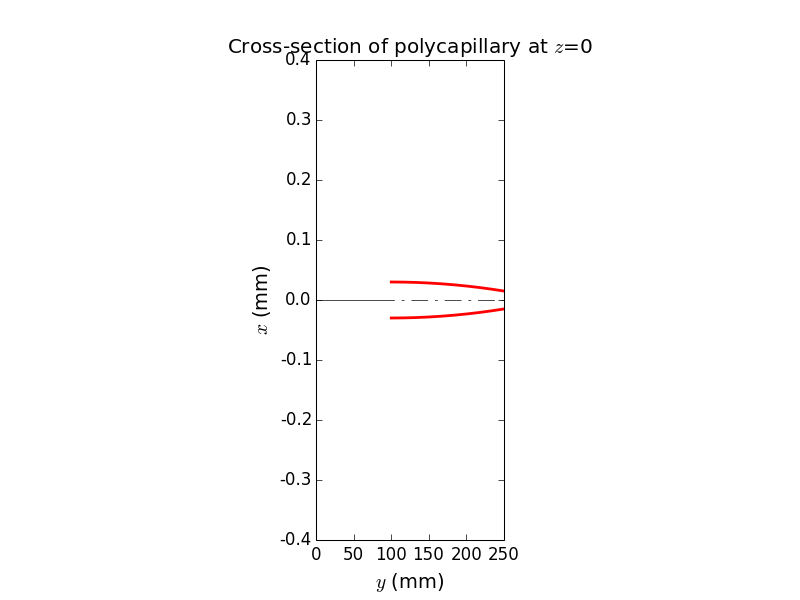
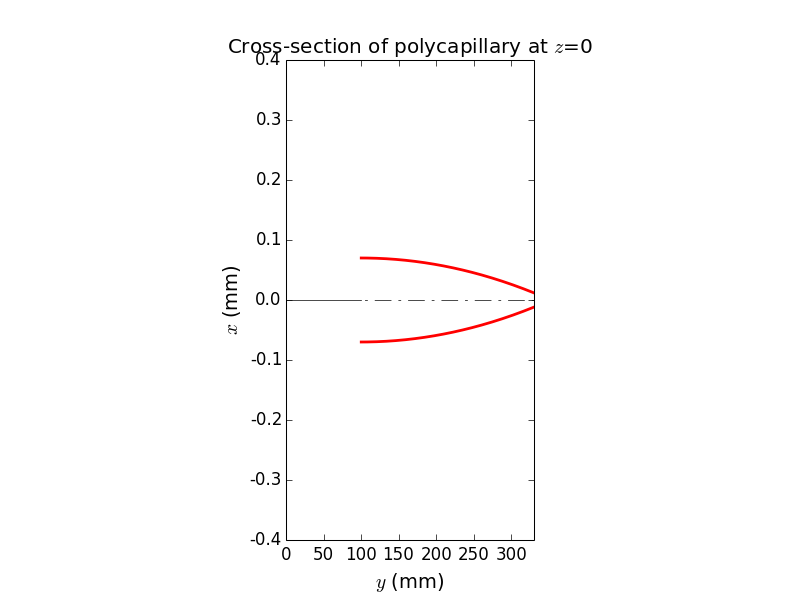
Connical as in paper fig 11

diff --git a/StraightCapillary.py b/StraightCapillary.py
@@ -23,8 +23,9 @@ mGlass = rm.Material(('Si', 'O'), quantities=(1, 2), rho=2.2)
 
 E0 = 9000.
 rSample = 100. # starting position of the lens
-f = 250. # y length in mm from foucs to the end of the lens
-r0 = 0.03
+f = 330. # y length in mm from foucs to the end of the lens
+r0 = 0.07
+rOut = 0.012
 wall = 0.02
 layers = 10 # number of hexagonal layers
 nRefl = 12
@@ -106,7 +107,7 @@ def build_beamline(nrays=1000):
     capillary = StraightCapillary(
         beamLine, 'StraightCapillary', [0,0,0], roll=roll,
         material=mGlass, limPhysY=[rSample*np.cos(alpha), f],
-        f=f, rSample=rSample, entranceAlpha=alpha, rIn=r0, rOut=r0/2)
+        f=f, rSample=rSample, entranceAlpha=alpha, rIn=r0, rOut=rOut)
     beamLine.capillaries.append(capillary)         
     
     if beamLine.xzMax < capillary.b0:
@@ -115,7 +116,7 @@ def build_beamline(nrays=1000):
     
     n=1     # one layer..
     beamLine.sources[0].dxprime = 0, np.arcsin((2*n+1) * (r0+wall) / rSample)
-    beamLine.fsm2 = rsc.Screen(beamLine,'DiamondFSM2', (0,f+300,0))
+    beamLine.fsm2 = rsc.Screen(beamLine,'DiamondFSM2', (0,f+110,0))
     return beamLine
     
     
